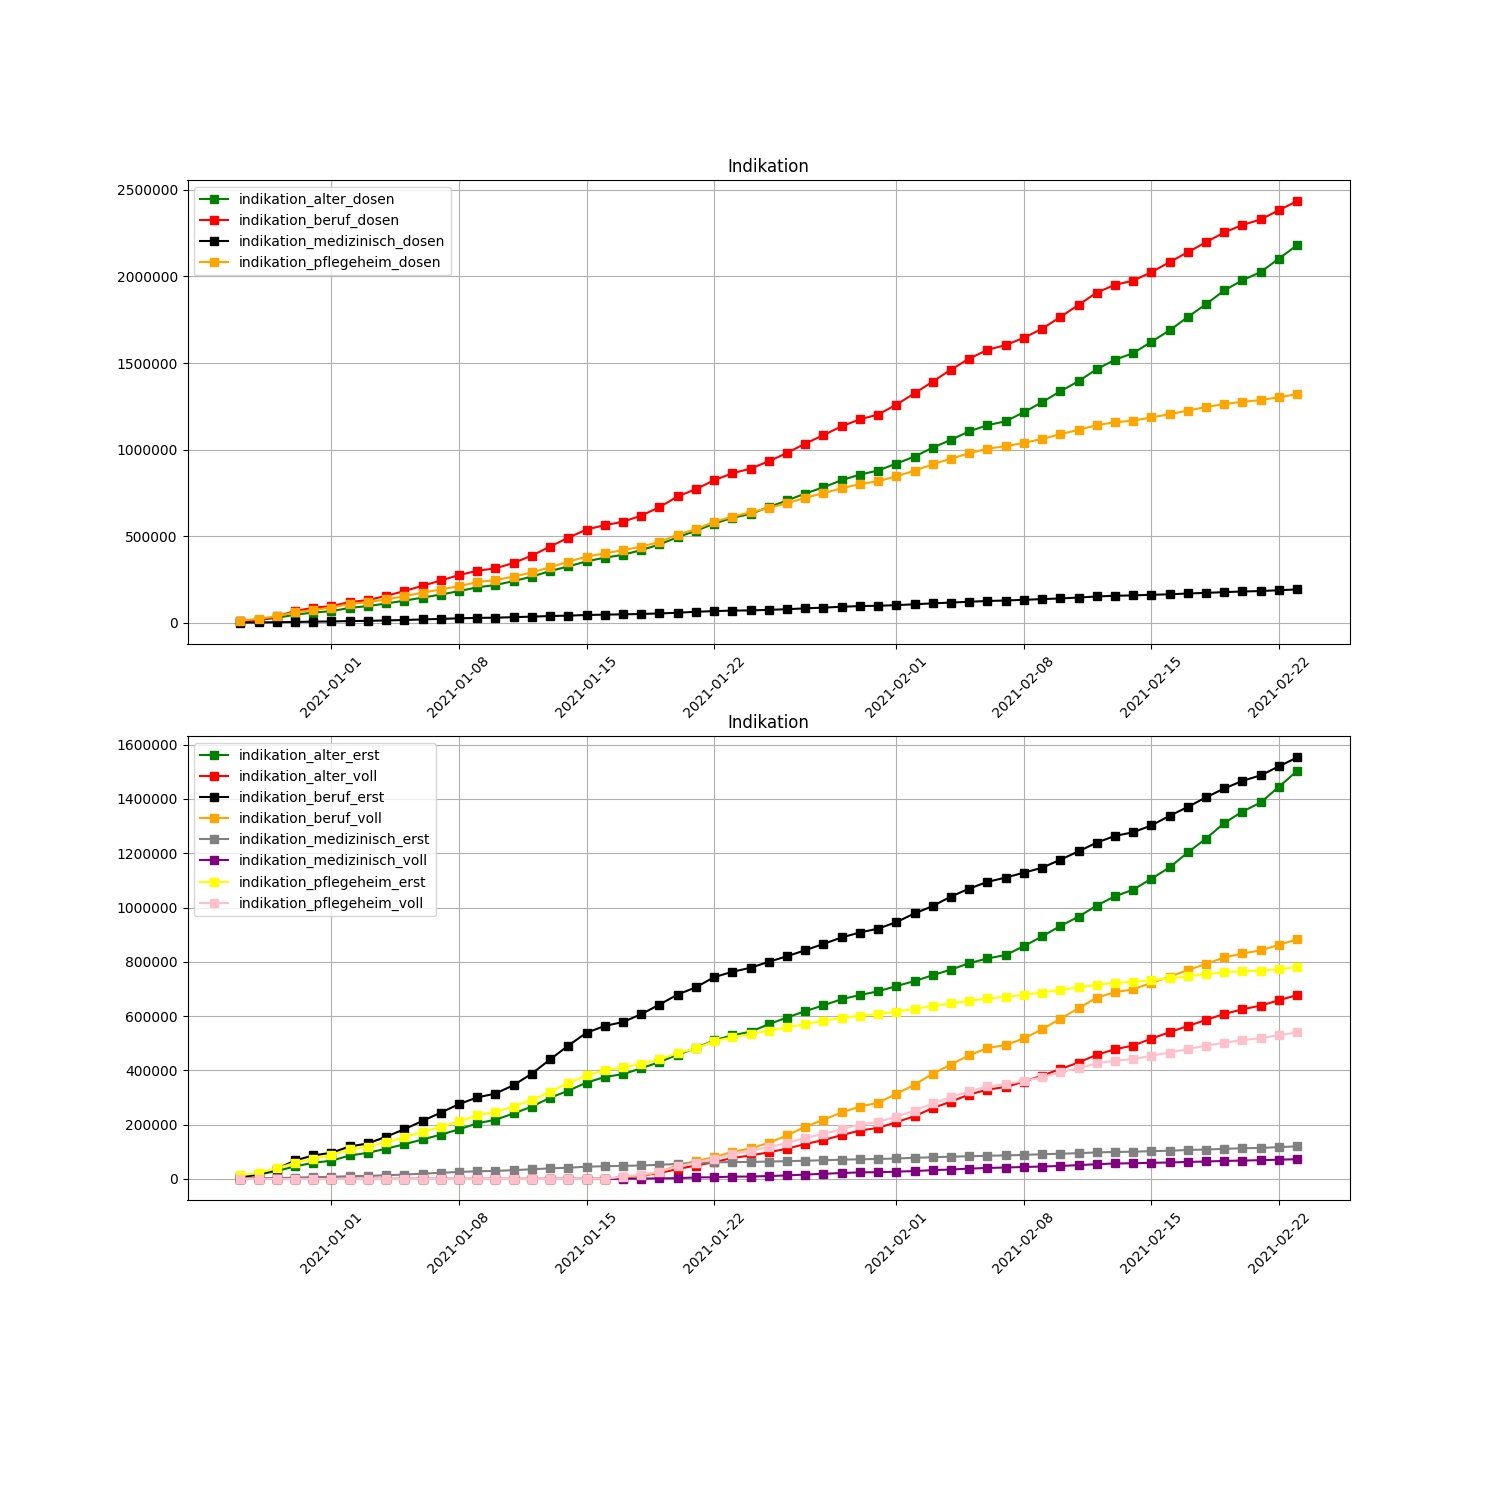
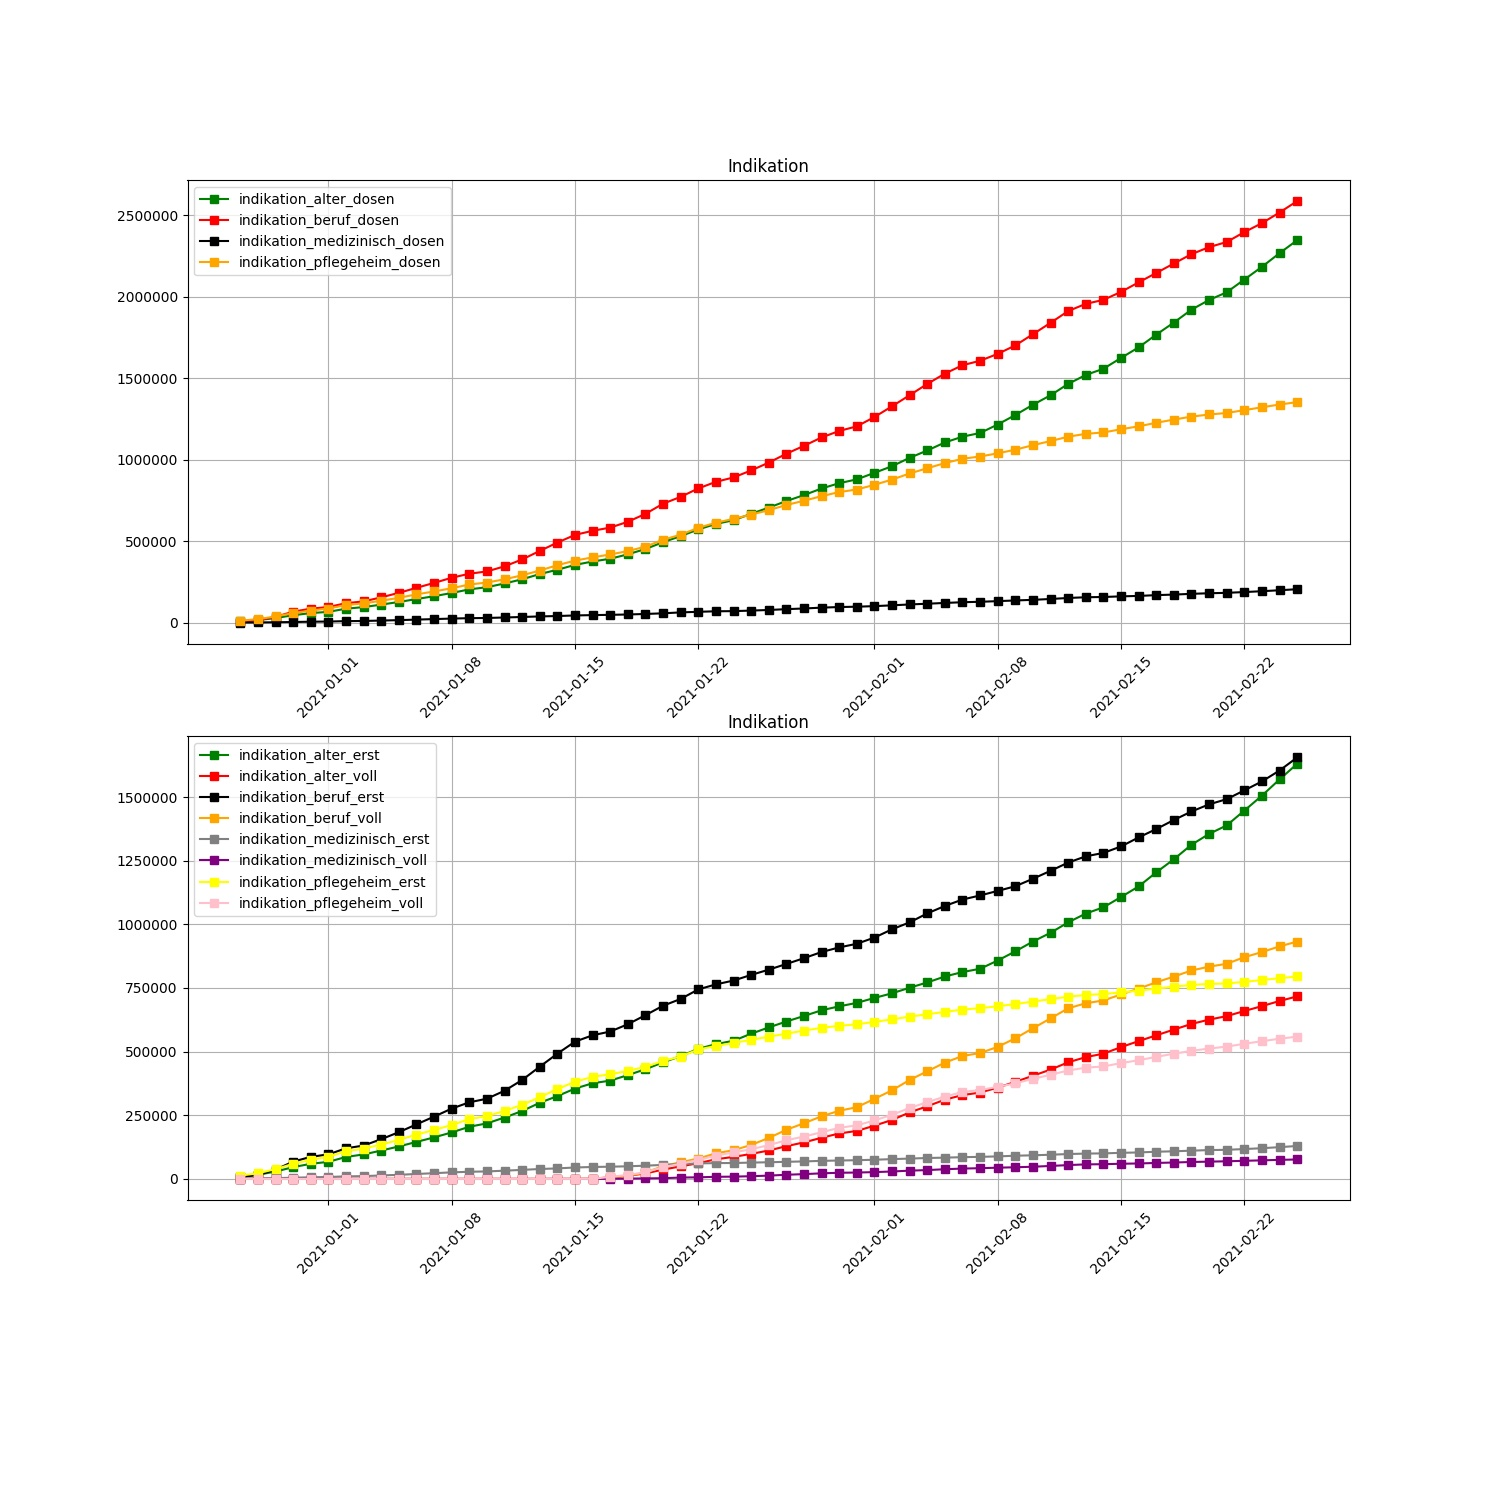
Crontab commit

diff --git a/Readme.md b/Readme.md
@@ -1,19 +1,19 @@
-# Corona vaccine Germany - Stand 2021-02-23
+# Corona vaccine Germany - Stand 2021-02-25
 ## Dashboard by [Simon Hamacher](https://www.shamacher.eu)
 ## Impfstoffe Übersicht
 **Impfstoffhersteller** | **verimpfte Dosen**
 -------- | :--------:
-Biontech | 4987095
-Moderna | 147571
-Astrazeneca | 238556
+Biontech | 5240237
+Moderna | 161186
+Astrazeneca | 314568
 
 
 ## Quoten
-**Total Verimpfte Dosen:** | 5373222
+**Total Verimpfte Dosen:** | 5715991
 -------- | :--------:
-**Erst-Impfquote** | 4.23 %
-**Voll-Impfquote** | 2.23 %
-**Imfungen Durchschnitt** | 91071.56 pro Tag
+**Erst-Impfquote** | 4.52 %
+**Voll-Impfquote** | 2.35 %
+**Imfungen Durchschnitt** | 93704.77 pro Tag
 ## Graphen
 <img src="Impfungen-Corona-01.jpg" alt="Corona-1" title="optionaler Titel" />
 <img src="Impfungen-Corona-02.jpg" alt="Corona-2" title="optionaler Titel" />
